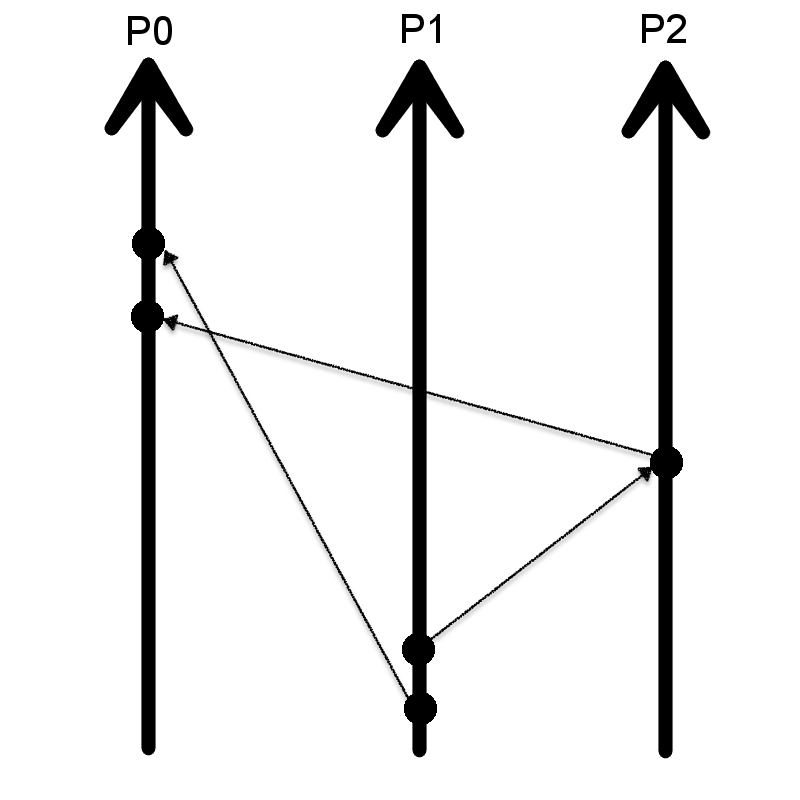
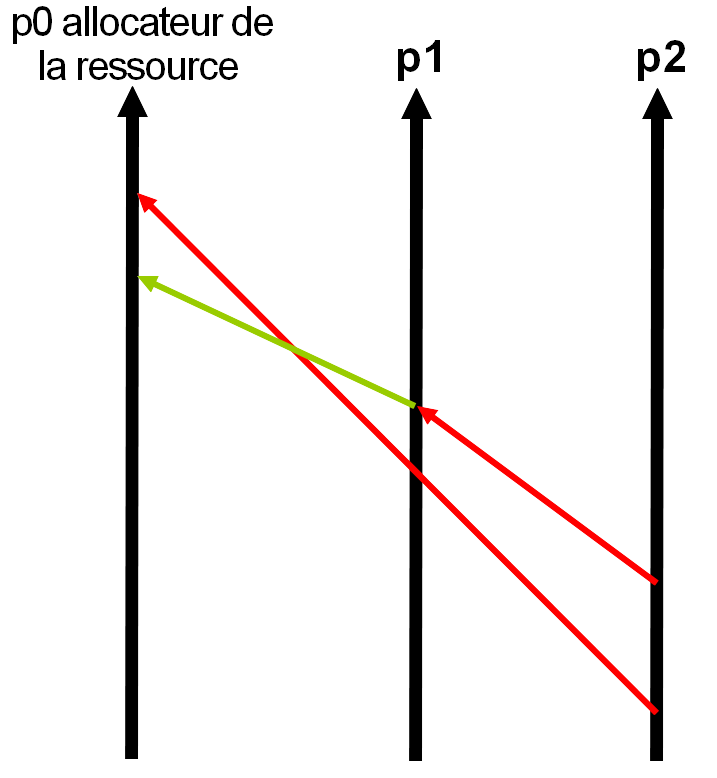
more refactoring + images

diff --git a/beamer/Time.tex b/beamer/Time.tex
@@ -203,7 +203,7 @@ Alors après $a$, $C_i \leftarrow C_i + 1$.
 	\begin{block}{Condition forte}
 	\begin{enumerate}[(a)]
 		\item Si un évènement $a$ est l'envoi d'un message $m$ par le processus $P_i$, alors le message $m$ contient un Timestamp $T_m \leftarrow C_i$<$a$>
-		\item Lorsqu'il reçoit un message $m$, le processus $P_j$ assigne la valeur $\mu$ son compteur $C_j$ tel que $\mu > T_m$ et $\mu \geq$ valeur de $C_j$ avant la réception de $m$
+		\item Lorsqu'il reçoit un message $m$, le processus $P_j$ assigne la valeur $\mu$ à son compteur $C_j$ tel que $\mu > T_m$ et $\mu \geq$ valeur de $C_j$ avant la réception de $m$
 	\end{enumerate}
 	\end{block}
 	\bigskip
@@ -213,8 +213,7 @@ Alors après $a$, $C_i \leftarrow C_i + 1$.
 \section{\'Evènements totalement ordonnés}
 \begin{frame}
 \frametitle{Ordre total}
-On souhaite avoir un système d'horloge qui satisfait les conditions d'horloge précédemment énoncées et qui met en place un \textit{\textbf{ordre total}}.\\
-\textbf{Rappel : }
+On souhaite avoir un système d'horloge qui satisfait les conditions d'horloge précédemment énoncées et qui met en place un \textit{\textbf{ordre total}}.\\ \bigskip
 \begin{block}{Ordre Total}
 Une \textbf{relation binaire} $\preceq$ sur un ensemble E est un ordre total si $\forall x, y, z \in E$, \\
 \begin{itemize}
@@ -227,64 +226,86 @@ Une \textbf{relation binaire} $\preceq$ sur un ensemble E est un ordre total si 
 
 \begin{frame}
 \frametitle{Ordre Total}
-Soit $\preceq$, un ordre total arbitraire sur l'ensemble des processus. On définit la relation $\Rightarrow$ comme suit :\\
+Soit $\prec$ un ordre total arbitraire (utilisé en cas d'égalité)\\ \bigskip
+On définit la relation $\Rightarrow$ comme suit :\\
+\begin{center}
 Si $a \in P_i$ et $b \in P_j$, alors \\
 \[
 	a \Rightarrow b \ \ \text{ssi}
 	\begin{cases}
 		C_i \text{<}a\text{>} < C_j\text{<}b\text{>} \\
 		\text{ou}\\
-		C_i\text{<}a\text{>} = C_j\text{<}b\text{>} \text{ et } P_i \preceq P_j
+		C_i\text{<}a\text{>} = C_j\text{<}b\text{>} \text{ et } P_i \prec P_j
 	\end{cases}
 \]
-Avec une telle définition, on a bien que si $a \rightarrow b$, alors $a \Rightarrow b$. (L'ordre partiel est étendu à un ordre total)
-\vspace{.5in}
-
-\^Etre capable d'ordonner totalement les évènements peut être très utile dans l'implémentation d'un système distribué. C'est le but d'un système à horloges logiques.
+\end{center}
+La relation $\Rightarrow$ est un ordre total (elle étend la relation  $\rightarrow$ )\\
+\bigskip
+Il est important de pouvoir ordonner totalement les événements dans un système distribué pour en assurer le bon fonctionnement.
 \end{frame}
 
 \begin{frame}
 \frametitle{Partage de ressource}
-On considère à présent un système composé d'un ensemble fini de processus qui partagent une ressource unique. On veut que les processus se synchronisent et évitent les conflits.
+\begin{itemize}
+\item Considérons un système composé d'un ensemble fini de processus qui partagent une ressource unique.
+\item On veut que les processus se synchronisent et évitent les conflits.
+\end{itemize}
 \begin{block}{Propriétés}
 \begin{enumerate}
-\item Un processus qui monopolise une ressource doit l'avoir libérée avant d'en monopoliser une autre
-\item Les requêtes pour les ressources doivent être accordées dans l'ordre dans lesquelles elles ont été demandées
-\item Si chaque processus qui détient une ressource la libère, alors on a que chaque requête sera accordée à un moment donné
+\item Le processus qui utilise la ressource doit la libérer avant que celle-ci puisse être utilisée par un autre processus
+\item Plusieurs demandes différentes pour la ressource doivent être accordées dans l'ordre dans lesquelles elles ont été faites
+\item Si chaque processus qui détient la ressource à un moment donné la libère, alors chaque requête sera accordée à un moment donné
 \end{enumerate}
 \end{block}
 \end{frame}
 
 \begin{frame}
-Un système d'horloge centrale qui alloue des requêtes dans l'ordre dont elles sont reçues ne fonctionnera pas.\\
-Soient $P_0, P_1, P_2$, des processus. On suppose que $P_1$ envoie une requête à $P_0$ et envoie ensuite
-un message à $P_2$. Lorsque $P_2$ reçoit le message, $P_2$ envoie une requête à $P_0$. Il est possible que la requête de $P_2$ atteigne $P_0$ avant la requête de $P_1$.
-\begin{figure}\includegraphics[scale=0.12]{process4.png}\end{figure}
-La 2e condition de ce système est donc violée si la requête de $P_2$ est accordée en premier.
+\frametitle{Horloge centrale}
+\textbf{{\color{red}Problème : }} Un système d'horloge centrale qui alloue la ressource en fonction des requêtes qu'elle reçoit ne respecte pas les conditions.\\\bigskip
+
+\begin{columns}
+    \begin{column}{.4\textwidth}
+		\includegraphics[scale=0.55]{process4.png}
+    \end{column}
+	\begin{column}{0.6 \textwidth}
+	\begin{itemize}
+	\item 	$p_2$ envoie sa demande de ressource à $p_0$\\
+	\item  	$p_2$ envoie ensuite un message à $p_1$\\
+	\item 	suite à la réception du message, $p_1$ fait aussi une demande de la ressource à $p_0$\\
+	\item Il est possible que la demande de $p_1$ arrive à $p_0$ avant celle de $p_2$.
+	\end{itemize}
+ \bigskip Les requêtes ne seront pas accordées selon l'ordre dans lequel elles ont été faites !
+	\end{column}
+	\end{columns}
 \end{frame}
 
 \begin{frame}
-Pour éviter ce problème : système d'horloge avec les règles {\color{cyan} IR 1} et {\color{cyan} IR 2} pour avoir un ordre total $\Rightarrow$ sur les évènements. On y rajoute les suppositions suivantes :
+Nous allons introduire un système d'horloges avec les règles faibles et fortes énoncées précédemment pour avoir un ordre total $\Rightarrow$ sur les évènements.\\ \bigskip
+Afin de simplifier le problème nous ferons les suppositions suivantes : \\ \bigskip
 \begin{enumerate}
-\item On suppose que pour tout processus $P_i$ et $P_j$, les messages envoyés de $P_i$ à $P_j$ sont reçus dans le même ordre qu'ils sont envoyés. \begin{figure}\includegraphics[scale=0.06]{process5.png}\includegraphics[scale=0.06]{process6.png}\end{figure}
-\item On suppose que chaque message envoyé finit toujours par être reçu. \begin{figure}\includegraphics[scale=0.06]{process7.png}\end{figure}
+\item On suppose que pour tout processus $P_i$ et $P_j$, les messages envoyés de $P_i$ à $P_j$ sont reçus dans le même ordre qu'ils sont envoyés. 
+\item On suppose que chaque message envoyé finit toujours par être reçu.
 \item On suppose qu'un processus peut envoyer des messages vers tout autre processus.
 \end{enumerate}
-Notons que les deux premières suppositions peuvent être évitées à l'aide d'un \textit{protocole d'acknowledgment} ou par numérotation des messages.
+Notons que les deux premières suppositions peuvent être évitées en utilisant des numéros de messages et un protocole d'accusé de réception.
 \end{frame}
 
 \begin{frame}
 \frametitle{Algorithme}
 \begin{itemize}
 \item Tout processus maintient une file de requête (file de priorité) invisible à tout autre processus.
-\item Initialisation de la file : {$T_0:P_0$ [request resource]} avec $\forall i,  T_0 \leq C_{i_0}$ et $P_0$, le processus auquel la ressource est accordée à l'initialisation.
+\item Une demande de ressource par le processus $p_i$ est de la forme $T_m:P_i$ où $T_m$ est le timestamp du message de requête.
+\item Initialisation de la file : {$T_0:P_0$} avec $\forall i,  T_0 \leq C_{i_0}$ et $P_0$, le processus auquel la ressource est accordée à l'initialisation.
 \end{itemize}
 	\begin{columns}
-    	\begin{column}{.65\textwidth}
-			$P_i$ envoie une requête à la ressource sous forme d'un message contenant $T_m : P_i$ [request resource] à tous les autres processus et place ce message sur sa file de requête où $T_m$ est le timestamp de ce message.
+    	\begin{column}{.5\textwidth}
+			Pour demander la ressource, $P_i$ envoie un message de demande $T_m : P_i$ à tous les autres processus et place ce message sur sa file de requête
 		\end{column}
-		\begin{column}{.35\textwidth}
-			\includegraphics[scale=0.13]{process8.png}
+		\begin{column}{.5\textwidth}
+		\begin{center}
+		\includegraphics[scale=0.6]{process8.png}
+		\end{center}
+		
 		\end{column}
 	\end{columns}
 %\includegraphics[scale=0.1]{process9.png}\includegraphics[scale=0.1]{process10.png}\includegraphics[scale=0.1]{process11.png}
@@ -293,20 +314,24 @@ Notons que les deux premières suppositions peuvent être évitées à l'aide d'
 \begin{frame}
 \frametitle{Algorithme}
 	\begin{columns}
-    	\begin{column}{.65\textwidth}
-			Lorsque le processus $P_j$ reçoit le message $T_m : P_i$[request resource], celui-ci le place dans sa file de requête et envoie un acknowledgment à $P_i$ lorsque ce message se trouve à la tête de la file.
+    	\begin{column}{.6\textwidth}
+			Lorsque le processus $P_j$ reçoit le message $T_m : P_i$, il le place dans sa file de requête et envoie un accusé de réception à $P_i$
 		\end{column}
-		\begin{column}{.35\textwidth}
-			\includegraphics[scale=0.13]{process9.png}
+		\begin{column}{.4\textwidth}
+		\begin{center}
+				\includegraphics[scale=0.5]{process9.png}
+		\end{center}
 		\end{column}
 	\end{columns}
 	
 		\begin{columns}
-    	\begin{column}{.65\textwidth}
-			Pour libérer la ressource, le processus $P_i$ supprime tout $T_m : P_i$[request resource] de sa file de requête et envoie un $P_i$[release resource] sous forme de message à chaque autre processus.
+    	\begin{column}{.6\textwidth}
+			Pour libérer la ressource, le processus $P_i$ supprime tout $T_m : P_i$ de sa file de requête et envoie un message $P_i$ qui notifie la libération de la ressource à chaque autre processus.
 		\end{column}
-		\begin{column}{.35\textwidth}
-			\includegraphics[scale=0.13]{process10.png}
+		\begin{column}{.4\textwidth}
+		\begin{center}
+				\includegraphics[scale=0.5]{process10.png}
+		\end{center}
 		\end{column}
 	\end{columns}
 \end{frame}
@@ -314,29 +339,33 @@ Notons que les deux premières suppositions peuvent être évitées à l'aide d'
 \begin{frame}
 \frametitle{Algorithme}
 \begin{columns}
-    	\begin{column}{.65\textwidth}
-			Lorsque le processus $P_j$ reçoit un message contenant $P_i$[release resource], il supprime chaque requête $T_m : P_i$[request resource] de sa file de requête.
+    	\begin{column}{.6\textwidth}
+			Lorsque le processus $P_j$ reçoit un message de libération de ressource $P_i$, il supprime chaque requête $T_m : P_i$ de sa file de requête.
 		\end{column}
-		\begin{column}{.35\textwidth}
-			\includegraphics[scale=0.13]{process11.png}
+		\begin{column}{.4\textwidth}
+		\begin{center}
+		\includegraphics[scale=0.5]{process11.png}
+		\end{center}
+	
 		\end{column}
 	\end{columns}
-	Finalement, la ressource est accordée au processus $P_i$ lorsque
+	\bigskip
+	Finalement, la ressource est accordée au processus $P_i$ lorsque \bigskip
 	\begin{itemize}
-	\item Il y a un message contenant $T_m : P_i$[request resource] dans sa file de requête qui est ordonnée avant chaque autre requête dans sa file par la relation $\Rightarrow$.
-	\item $P_i$ a reçu un message (ACK) de tous les autres processus qui est daté après $T_m$.
+	\item Il y a un message contenant $T_m : P_i$ dans sa file de requête qui est ordonnée avant chaque autre requête dans sa file par la relation $\Rightarrow$.
+	\item $P_i$ a reçu un message de tous les autres processus daté après $T_m$.
 	\end{itemize}
-	{\color{cyan} Chaque processus} suit ces règles indépendamment $\implies$ pas de processus de synchro et de stockage central.
+	\bigskip
+	{\color{cyan} Chaque processus} suit ces règles indépendamment donc on a pas de processus de synchronisation central.
 \end{frame}
 
 \begin{frame}
-\frametitle{Généralisation}
-\textbf{\color{cyan} But : }implémenter la synchronisation dans de tels systèmes distribués.\\
-\begin{block}{Automate $SM(S, C, \delta)$}
+\frametitle{Machine à états}
+\begin{block}{Machine à états $SM(S, C, \delta)$}
 \begin{itemize}
 \item $S$ ensemble des états possibles. \\Un état $s$ correspond à une file de requêtes où la requête à la tête de la file est actuellement accordée.
-\item $C$ ensemble des commandes possibles. \\Correspond aux commandes $P_i $ [request resource] et $P_i$ [release resource].
-\item $\delta : S \times C \rightarrow S$ tel que $\forall s \in S, c \in C, \delta(s, c) = s'$ si il est possible d'exécuter la commande $c$ en $s$
+\item $C$ ensemble des commandes possibles. \\Correspond aux commandes $P_i $ de demande ou de libération de ressource.
+\item $\delta : C \times S \rightarrow S$ une fonction de transition telle que $\delta(c, s) = s'$ indique qu'exécuter l'action $c$ quand la machine est en l'état $s$ amène celle-ci en l'état $s'$.
 \end{itemize}
 \end{block}
 \end{frame}
@@ -354,9 +383,9 @@ En pratique, l'automate est plus complexe incluant des commandes avec des Timest
 \frametitle{Points faibles}
 \begin{itemize}
 \item L'algorithme nécessite la participation active de tous les autres processus
-\item Un processus \textbf{doit} connaitre toutes les commandes issues des autres processus. 
+\item Un processus \textbf{doit} connaître toutes les commandes issues des autres processus. 
 \item L'échec d'un processus peut dérégler tout le système.
-\item Sans \textbf{\color{cyan} temps physique}, il n'y a pas moyen de distinguer l'échec d'un processus d'un autre qui est juste en pause.
+\item Sans \textbf{\color{cyan} temps physique}, il n'y a pas moyen de distinguer l'échec d'un processus. La seule manière de détecter cet échec est un timeout, qui nécessite l'utilisation de temps physique.
 \end{itemize}
 Cependant, le fait que l'algorithme classe les requêtes selon l'ordre total $\Rightarrow$ permet de détecter les comportements anormaux.
 \end{frame}
